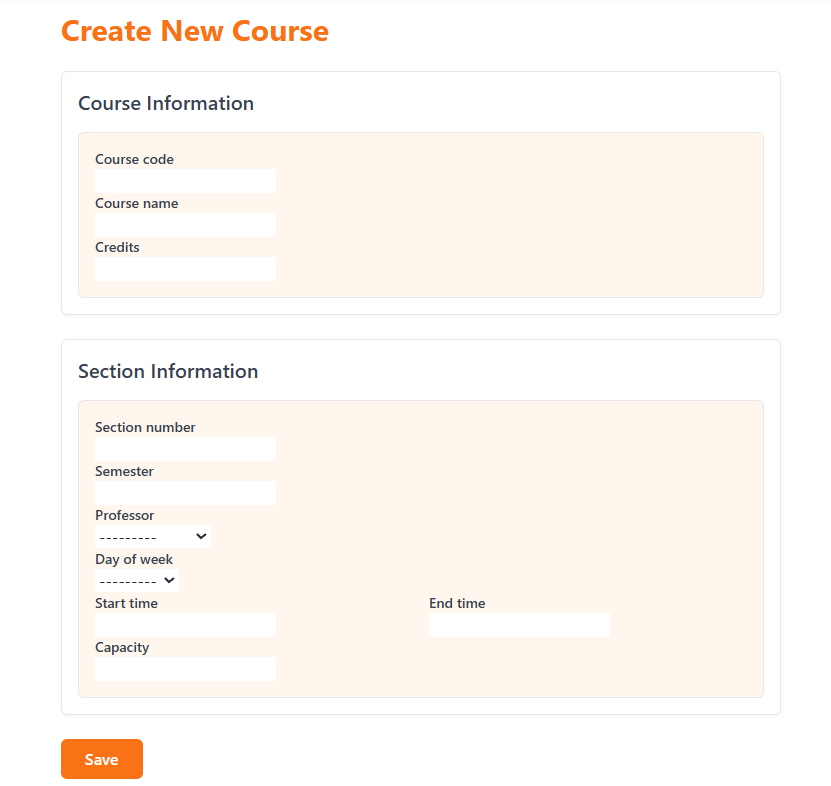
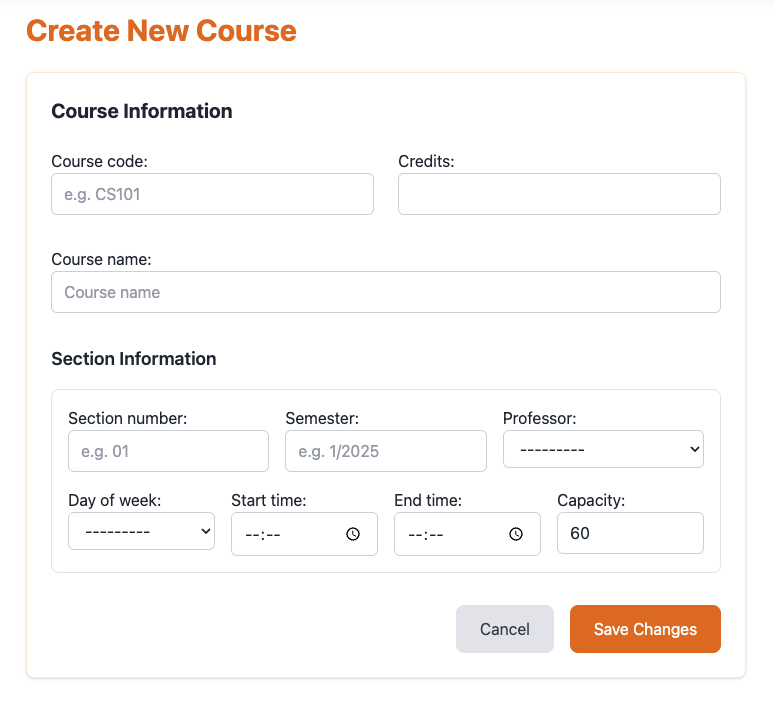
add exercise 2.2, 2.3, 2.4

diff --git a/exercise/exercise.md b/exercise/exercise.md
@@ -1,20 +1,21 @@
 # WEEK 10 EXCERCISE
 
 - จะต้องใช้แบบฝึกหัดใน WEEK 9 ในการทำแบบฝึกหัดครังนี้ต่อครับ
+
 - ไฟล์ template ที่เกี่ยวข้อง
 
-    ```text
-    templates/
-    - base.hmtl
-    - course.hmtl
-    - create_course
-    - create_student.html
-    - faculty.html
-    - index.html
-    - nav.html
-    - professor.html
-    - update_student.html
-    ```
+```text
+templates/
+- base.hmtl
+- course.hmtl
+- create_course
+- create_student.html
+- faculty.html
+- index.html
+- nav.html
+- professor.html
+- update_student.html
+```
 
 ## Part 1: Student Model Form
 
@@ -32,13 +33,11 @@
 
 ![create_course](images/create_course.png)
 
-2.2 บันทึกข้อมูลโปรเจคใหม่ หลังจากยันทึกสำเร็จให้ redirect กลับไปที่หน้า project list (0.5 คะแนน)
+2.2 Implement สร้างข้อมูล Course ใหม่ให้สมบูรณ์ โดยหลังจากยันทึกสำเร็จให้ redirect กลับไปที่หน้า Course Dashboard (0.5 คะแนน)
 
-![project-list](images/project-list.png) 
+2.3 ในหน้า Course Dashboard ในตารางข้อมูล ให้เพิ่ม Column ใหม่ชื่อว่า "Action" โดย Column นี้จะเป็นปุ่ม Edit ที่กดไปแล้วจะเป็นหน้า form แก้ไขรายละเอียด และให้ Implement การแก้ไขข้อมูล Course ให้สมบูรณ์ (0.5 คะแนน)
 
-2.3 เมื่อกดปุ่มแก้ไขที่หน้า project list ให้ไปยังหน้า project detail และแสดงผล Form สำหรับแก้ไขข้อมูลโปรเจคดังภาพ (0.5 คะแนน)
-
-**Hint:** ให้สร้าง view ใหม่สำหรับใช้ update ข้อมูล project ตัวอย่างการใช้ form ในการ update ข้อมูลดังด้านล่าง
+**Hint:** ให้สร้าง view ใหม่สำหรับใช้ update ข้อมูล course ตัวอย่างการใช้ form ในการ update ข้อมูลดังด้านล่าง
 
 ```python
 from django.http import HttpResponse
@@ -59,8 +58,9 @@ class UpdateArticleView(View):
     return HttpResponse("error")
 ```
 
-![project-form](images/project-detail.png)
+![course_add_edit](images/course_edit_btn.png)
+![edit_course](images/edit_course.png)
 
-2.4 เมื่อกดปุ่ม Save ให้ทำการแก้ไขข้อมูล project และสามารถเพิ่มพนักงานเข้ามาใน Project ได้ หลังจากแก้ไขให้ redirect กลับมาหน้าเดิมพร้อมแสดงข้อมูลที่ถูกแก้ไขแล้ว (1 คะแนน)
+2.4 เพิ่มการ Validate Setion โดย `End time` ต้องมากกว่า `Start time` (1 คะแนน)
 
-**Hint:** ปุ่ม "kick staff" ไม่ต้องทำนะครับ เอาแค่ให้เพิ่ง staff ได้เมื่อกด Save พอครับ หรือถ้าใครอยากลองทำก็ได้ครับ
+![validate_section](images/validate_section.png)
